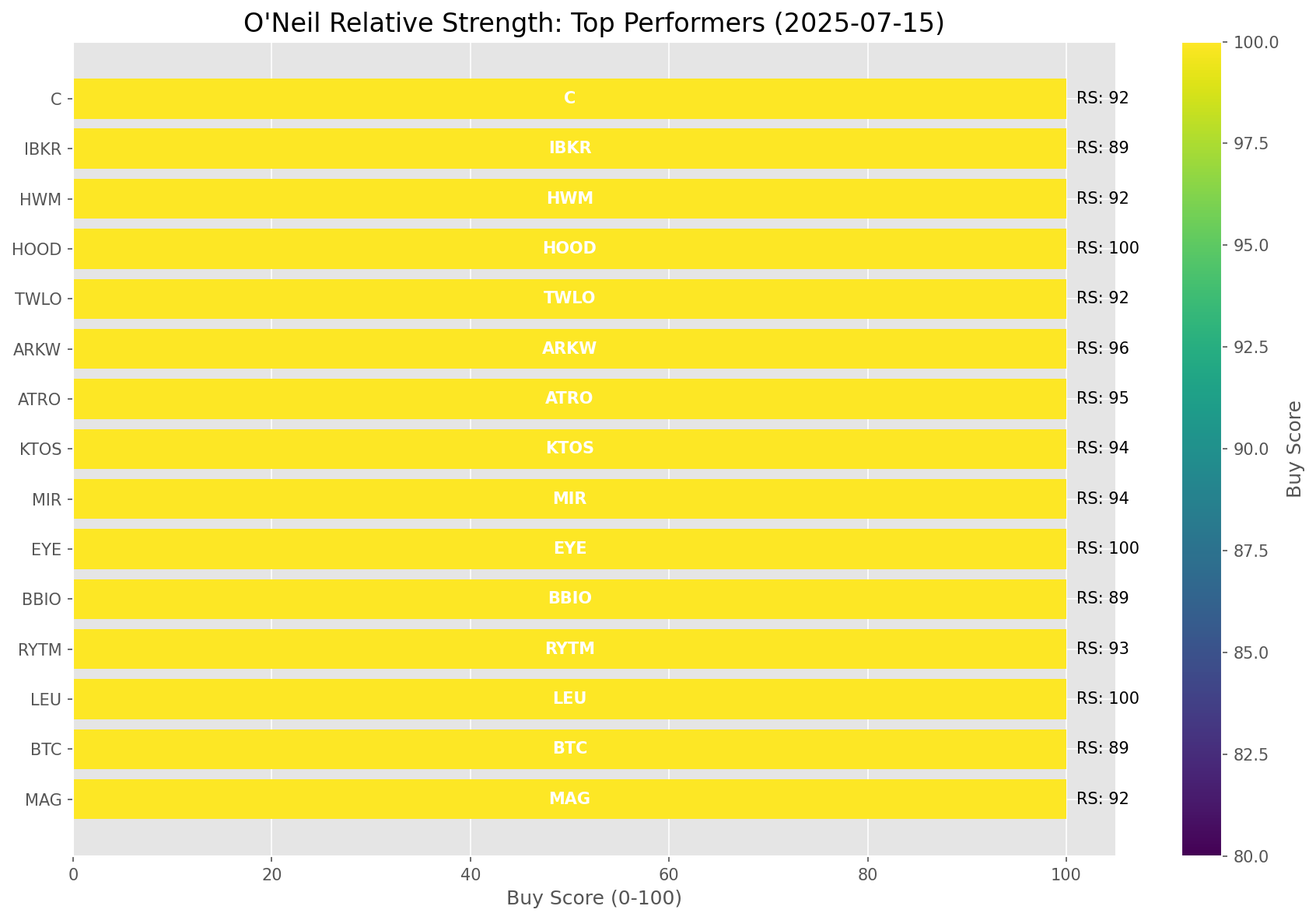
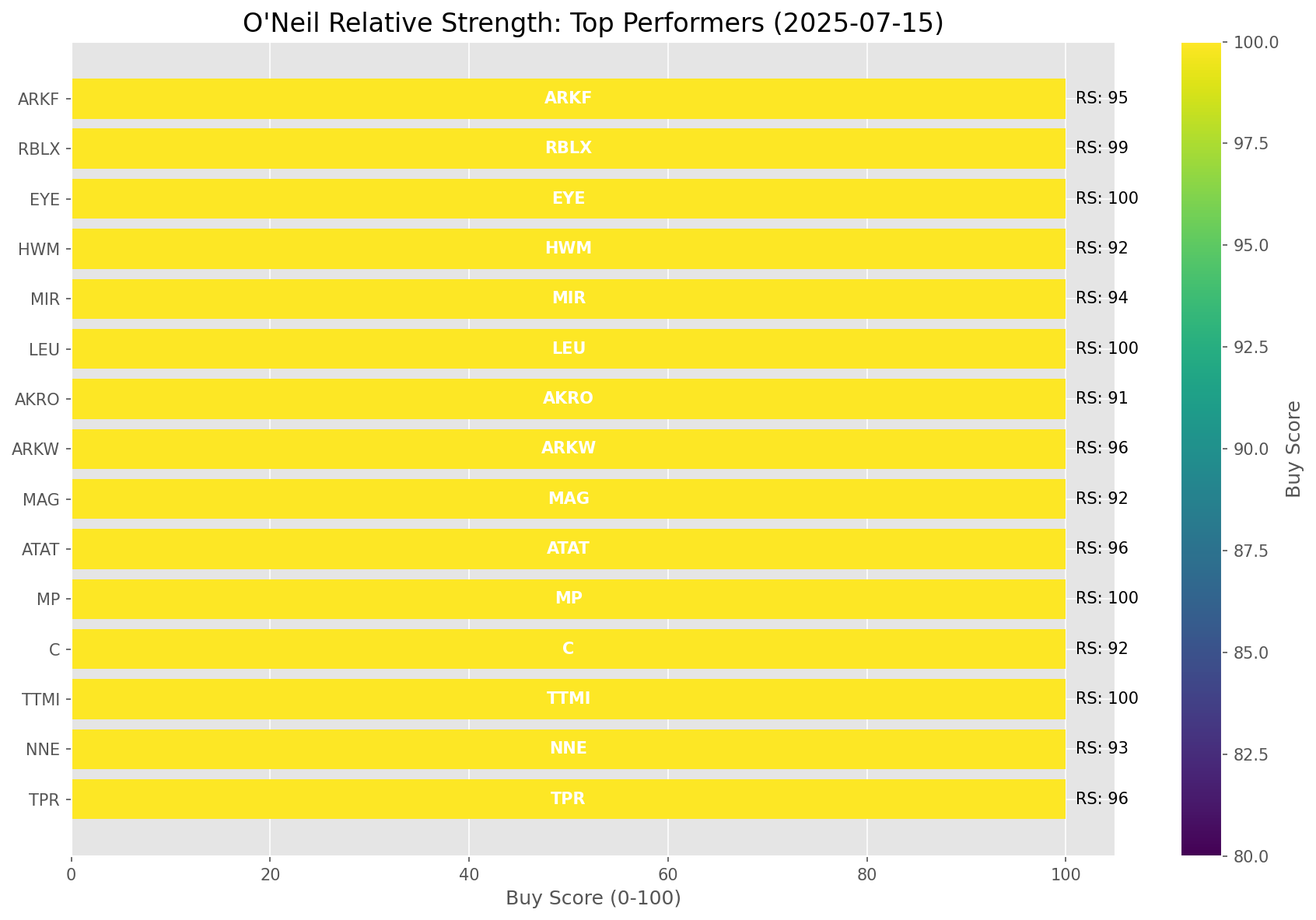
Add market report for 2025-07-15

diff --git a/oneil_relative_strength_report_2025-07-15.md b/oneil_relative_strength_report_2025-07-15.md
@@ -79,8 +79,8 @@ Based on William O'Neil's Relative Strength Methodology
 | [IYR](https://www.tradingview.com/chart/?symbol=IYR) | 29.4 | 39.0 | 6.88% | 10d ✗, 50d ✓, 200d ✗ | ↘ | Real Estate |
 | [BIL](https://www.tradingview.com/chart/?symbol=BIL) | 29.3 | 19.0 | 0.02% | 10d ✓, 50d ✓, 200d ✗ | ↘ | Short-term Treasuries |
 | [UUP](https://www.tradingview.com/chart/?symbol=UUP) | 29.3 | 19.0 | -0.04% | 10d ✓, 50d ✓, 200d ✗ | ↘ | U.S. Dollar |
-| [DBA](https://www.tradingview.com/chart/?symbol=DBA) | 29.0 | 18.0 | -0.54% | 10d ✗, 50d ✗, 200d ✗ | ↗ | Agriculture |
 | [XLP](https://www.tradingview.com/chart/?symbol=XLP) | 29.0 | 18.0 | -0.35% | 10d ✗, 50d ✗, 200d ✗ | ↗ | Consumer Staples |
+| [DBA](https://www.tradingview.com/chart/?symbol=DBA) | 29.0 | 18.0 | -0.54% | 10d ✗, 50d ✗, 200d ✗ | ↗ | Agriculture |
 | [ITB](https://www.tradingview.com/chart/?symbol=ITB) | 27.9 | 36.0 | 5.54% | 10d ✗, 50d ✓, 200d ✗ | ↘ | Home Construction |
 | [TLT](https://www.tradingview.com/chart/?symbol=TLT) | 7.5 | 15.0 | -2.16% | 10d ✗, 50d ✗, 200d ✗ | ↘ | Long-term Treasuries |
 | [XLV](https://www.tradingview.com/chart/?symbol=XLV) | 6.5 | 13.0 | -3.12% | 10d ✗, 50d ✗, 200d ✗ | ↘ | Healthcare |
@@ -110,40 +110,40 @@ The following 43 stocks show exceptional relative strength:
 
 | RS Rating | Buy Score | Current Price | Chart | Name | Ticker |
 |-----------|-----------|---------------|-------|------|--------|
+| 100 | 100 | $45.79 | [Chart](https://www.tradingview.com/chart/?symbol=TTMI) | TTM Technologies Inc | TTMI |
+| 100 | 100 | $58.22 | [Chart](https://www.tradingview.com/chart/?symbol=MP) | MP Materials Corp. | MP |
 | 100 | 100 | $215.26 | [Chart](https://www.tradingview.com/chart/?symbol=LEU) | Centrus Energy Corp. | LEU |
 | 100 | 100 | $25.26 | [Chart](https://www.tradingview.com/chart/?symbol=EYE) | National Vision Holdings, Inc. Common Stock | EYE |
 | 100 | 100 | $99.54 | [Chart](https://www.tradingview.com/chart/?symbol=HOOD) | Robinhood Markets, Inc. Class A Common Stock | HOOD |
-| 100 | 100 | $58.22 | [Chart](https://www.tradingview.com/chart/?symbol=MP) | MP Materials Corp. | MP |
-| 100 | 100 | $45.79 | [Chart](https://www.tradingview.com/chart/?symbol=TTMI) | TTM Technologies Inc | TTMI |
-| 99 | 100 | $68.47 | [Chart](https://www.tradingview.com/chart/?symbol=LIF) | Life360, Inc. Common Stock | LIF |
 | 99 | 100 | $112.48 | [Chart](https://www.tradingview.com/chart/?symbol=RBLX) | Roblox Corporation | RBLX |
-| 98 | 100 | $145.92 | [Chart](https://www.tradingview.com/chart/?symbol=FUTU) | Futu Holdings Limited American Depositary Shares | FUTU |
+| 99 | 100 | $68.47 | [Chart](https://www.tradingview.com/chart/?symbol=LIF) | Life360, Inc. Common Stock | LIF |
 | 98 | 100 | $104.77 | [Chart](https://www.tradingview.com/chart/?symbol=VRNA) | Verona Pharma plc | VRNA |
+| 98 | 100 | $145.92 | [Chart](https://www.tradingview.com/chart/?symbol=FUTU) | Futu Holdings Limited American Depositary Shares | FUTU |
 | 98 | 100 | $39.42 | [Chart](https://www.tradingview.com/chart/?symbol=AS) | Amer Sports, Inc. | AS |
-| 97 | 100 | $148.58 | [Chart](https://www.tradingview.com/chart/?symbol=PLTR) | Palantir Technologies Inc. Class A Common Stock | PLTR |
-| 97 | 100 | $559.61 | [Chart](https://www.tradingview.com/chart/?symbol=GEV) | GE Vernova Inc. | GEV |
 | 97 | 100 | $348.41 | [Chart](https://www.tradingview.com/chart/?symbol=CVNA) | Carvana Co. | CVNA |
-| 96 | 100 | $151.95 | [Chart](https://www.tradingview.com/chart/?symbol=ARKW) | ARK Next Generation Internet ETF | ARKW |
-| 96 | 100 | $35.93 | [Chart](https://www.tradingview.com/chart/?symbol=ATAT) | Atour Lifestyle Holdings Limited American Depositary Shares | ATAT |
+| 97 | 100 | $559.61 | [Chart](https://www.tradingview.com/chart/?symbol=GEV) | GE Vernova Inc. | GEV |
+| 97 | 100 | $148.58 | [Chart](https://www.tradingview.com/chart/?symbol=PLTR) | Palantir Technologies Inc. Class A Common Stock | PLTR |
 | 96 | 100 | $101.60 | [Chart](https://www.tradingview.com/chart/?symbol=TPR) | Tapestry, Inc. Common Stock | TPR |
-| 95 | 100 | $35.29 | [Chart](https://www.tradingview.com/chart/?symbol=ATRO) | Astronics Corp | ATRO |
+| 96 | 100 | $35.93 | [Chart](https://www.tradingview.com/chart/?symbol=ATAT) | Atour Lifestyle Holdings Limited American Depositary Shares | ATAT |
+| 96 | 100 | $151.95 | [Chart](https://www.tradingview.com/chart/?symbol=ARKW) | ARK Next Generation Internet ETF | ARKW |
 | 95 | 100 | $51.69 | [Chart](https://www.tradingview.com/chart/?symbol=ARKF) | ARK Fintech Innovation ETF | ARKF |
+| 95 | 100 | $35.29 | [Chart](https://www.tradingview.com/chart/?symbol=ATRO) | Astronics Corp | ATRO |
 | 94 | 100 | $20.74 | [Chart](https://www.tradingview.com/chart/?symbol=MIR) | Mirion Technologies, Inc. | MIR |
 | 94 | 100 | $51.12 | [Chart](https://www.tradingview.com/chart/?symbol=KTOS) | Kratos Defense & Security Solutions, Inc. | KTOS |
-| 93 | 100 | $89.36 | [Chart](https://www.tradingview.com/chart/?symbol=RYTM) | Rhythm Pharmaceuticals, Inc. Common Stock | RYTM |
-| 93 | 100 | $222.20 | [Chart](https://www.tradingview.com/chart/?symbol=AGX) | Argan, Inc | AGX |
 | 93 | 100 | $35.08 | [Chart](https://www.tradingview.com/chart/?symbol=NNE) | Nano Nuclear Energy Inc. Common Stock | NNE |
-| 92 | 100 | $21.94 | [Chart](https://www.tradingview.com/chart/?symbol=MAG) | MAG Silver Corp. | MAG |
-| 92 | 100 | $126.16 | [Chart](https://www.tradingview.com/chart/?symbol=TWLO) | Twilio Inc. | TWLO |
-| 92 | 100 | $184.68 | [Chart](https://www.tradingview.com/chart/?symbol=HWM) | Howmet Aerospace Inc. | HWM |
+| 93 | 100 | $222.20 | [Chart](https://www.tradingview.com/chart/?symbol=AGX) | Argan, Inc | AGX |
+| 93 | 100 | $89.36 | [Chart](https://www.tradingview.com/chart/?symbol=RYTM) | Rhythm Pharmaceuticals, Inc. Common Stock | RYTM |
 | 92 | 100 | $90.72 | [Chart](https://www.tradingview.com/chart/?symbol=C) | Citigroup Inc. | C |
+| 92 | 100 | $21.94 | [Chart](https://www.tradingview.com/chart/?symbol=MAG) | MAG Silver Corp. | MAG |
+| 92 | 100 | $184.68 | [Chart](https://www.tradingview.com/chart/?symbol=HWM) | Howmet Aerospace Inc. | HWM |
+| 92 | 100 | $126.16 | [Chart](https://www.tradingview.com/chart/?symbol=TWLO) | Twilio Inc. | TWLO |
 | 92 | 100 | $442.31 | [Chart](https://www.tradingview.com/chart/?symbol=MSTR) | MicroStrategy Inc | MSTR |
 | 92 | 100 | $264.67 | [Chart](https://www.tradingview.com/chart/?symbol=GE) | GE Aerospace | GE |
 | 91 | 100 | $51.76 | [Chart](https://www.tradingview.com/chart/?symbol=AKRO) | Akero Therapeutics, Inc. Common Stock | AKRO |
 | 90 | 100 | $78.39 | [Chart](https://www.tradingview.com/chart/?symbol=TPB) | Turning Point Brands, Inc. | TPB |
-| 89 | 100 | $51.61 | [Chart](https://www.tradingview.com/chart/?symbol=BTC) | Grayscale Bitcoin Mini Trust ETF | BTC |
-| 89 | 100 | $46.97 | [Chart](https://www.tradingview.com/chart/?symbol=BBIO) | BridgeBio Pharma, Inc. Common Stock | BBIO |
 | 89 | 100 | $59.63 | [Chart](https://www.tradingview.com/chart/?symbol=IBKR) | Interactive Brokers Group, Inc. Class A Common Stock | IBKR |
+| 89 | 100 | $46.97 | [Chart](https://www.tradingview.com/chart/?symbol=BBIO) | BridgeBio Pharma, Inc. Common Stock | BBIO |
+| 89 | 100 | $51.61 | [Chart](https://www.tradingview.com/chart/?symbol=BTC) | Grayscale Bitcoin Mini Trust ETF | BTC |
 | 89 | 99 | $66.16 | [Chart](https://www.tradingview.com/chart/?symbol=IBIT) | iShares Bitcoin Trust ETF | IBIT |
 | 86 | 99 | $158.26 | [Chart](https://www.tradingview.com/chart/?symbol=SE) | Sea Limited American Depositary Shares, each representing one Class A Ordinary Share | SE |
 | 85 | 98 | $18.48 | [Chart](https://www.tradingview.com/chart/?symbol=BCS) | Barclays PLC | BCS |
@@ -164,52 +164,52 @@ The following 176 stocks show deteriorating relative strength:
 | RS Rating | Sell Score | Current Price | Chart | Name | Ticker |
 |-----------|------------|---------------|-------|------|--------|
 | 1 | 100 | $11.34 | [Chart](https://www.tradingview.com/chart/?symbol=TZA) | Direxion Daily Small Cap Bear 3x Shares | TZA |
-| 1 | 100 | $34.58 | [Chart](https://www.tradingview.com/chart/?symbol=SARK) | Investment Managers Series Trust II Tradr 1X Short Innovation Daily ETF | SARK |
+| 1 | 100 | $25.36 | [Chart](https://www.tradingview.com/chart/?symbol=TECS) | Direxion Daily Technology Bear 3x Shares | TECS |
 | 1 | 100 | $24.96 | [Chart](https://www.tradingview.com/chart/?symbol=QID) | ProShares UltraShort QQQ | QID |
 | 1 | 100 | $10.09 | [Chart](https://www.tradingview.com/chart/?symbol=HIBS) | Direxion Daily S&P 500 High Beta Bear 3X Shares | HIBS |
-| 1 | 100 | $25.36 | [Chart](https://www.tradingview.com/chart/?symbol=TECS) | Direxion Daily Technology Bear 3x Shares | TECS |
-| 2 | 100 | $11.74 | [Chart](https://www.tradingview.com/chart/?symbol=IART) | Integra LifeSciences Holdings | IART |
-| 2 | 100 | $41.00 | [Chart](https://www.tradingview.com/chart/?symbol=LINE) | Lineage, Inc. Common Stock | LINE |
-| 2 | 100 | $16.51 | [Chart](https://www.tradingview.com/chart/?symbol=SDS) | ProShares UltraShort S&P500 | SDS |
-| 2 | 100 | $41.77 | [Chart](https://www.tradingview.com/chart/?symbol=SDOW) | ProShares UltraPro Short Dow 30 | SDOW |
+| 1 | 100 | $34.58 | [Chart](https://www.tradingview.com/chart/?symbol=SARK) | Investment Managers Series Trust II Tradr 1X Short Innovation Daily ETF | SARK |
 | 2 | 100 | $10.25 | [Chart](https://www.tradingview.com/chart/?symbol=SNDX) | Syndax Pharmaceuticals, Inc. | SNDX |
 | 2 | 100 | $221.90 | [Chart](https://www.tradingview.com/chart/?symbol=HUM) | Humana Inc. | HUM |
-| 3 | 100 | $21.72 | [Chart](https://www.tradingview.com/chart/?symbol=ERY) | Direxion Daily Energy Bear 2X Shares | ERY |
+| 2 | 100 | $16.51 | [Chart](https://www.tradingview.com/chart/?symbol=SDS) | ProShares UltraShort S&P500 | SDS |
+| 2 | 100 | $11.74 | [Chart](https://www.tradingview.com/chart/?symbol=IART) | Integra LifeSciences Holdings | IART |
+| 2 | 100 | $41.77 | [Chart](https://www.tradingview.com/chart/?symbol=SDOW) | ProShares UltraPro Short Dow 30 | SDOW |
+| 2 | 100 | $41.00 | [Chart](https://www.tradingview.com/chart/?symbol=LINE) | Lineage, Inc. Common Stock | LINE |
 | 3 | 100 | $10.53 | [Chart](https://www.tradingview.com/chart/?symbol=SONO) | Sonos, Inc. Common Stock | SONO |
-| 3 | 100 | $47.05 | [Chart](https://www.tradingview.com/chart/?symbol=ASGN) | ASGN Incorporated | ASGN |
-| 3 | 100 | $10.76 | [Chart](https://www.tradingview.com/chart/?symbol=OFIX) | Orthofix Medical Inc. Common Stock (DE) | OFIX |
 | 3 | 100 | $15.47 | [Chart](https://www.tradingview.com/chart/?symbol=HP) | Helmerich & Payne, Inc. | HP |
-| 3 | 100 | $81.26 | [Chart](https://www.tradingview.com/chart/?symbol=LNTH) | Lantheus Holdings, Inc | LNTH |
+| 3 | 100 | $47.05 | [Chart](https://www.tradingview.com/chart/?symbol=ASGN) | ASGN Incorporated | ASGN |
+| 3 | 100 | $21.72 | [Chart](https://www.tradingview.com/chart/?symbol=ERY) | Direxion Daily Energy Bear 2X Shares | ERY |
+| 3 | 100 | $10.76 | [Chart](https://www.tradingview.com/chart/?symbol=OFIX) | Orthofix Medical Inc. Common Stock (DE) | OFIX |
 | 3 | 100 | $36.72 | [Chart](https://www.tradingview.com/chart/?symbol=IBTA) | Ibotta, Inc. | IBTA |
+| 3 | 100 | $81.26 | [Chart](https://www.tradingview.com/chart/?symbol=LNTH) | Lantheus Holdings, Inc | LNTH |
+| 4 | 100 | $12.06 | [Chart](https://www.tradingview.com/chart/?symbol=CCRN) | Cross Country Healthcare Inc | CCRN |
+| 4 | 100 | $99.69 | [Chart](https://www.tradingview.com/chart/?symbol=ONTO) | Onto Innovation Inc. | ONTO |
 | 4 | 100 | $65.83 | [Chart](https://www.tradingview.com/chart/?symbol=TNET) | TRINET GROUP, INC. | TNET |
 | 4 | 100 | $24.36 | [Chart](https://www.tradingview.com/chart/?symbol=DXD) | ProShares UltraShort Dow 30 | DXD |
-| 4 | 100 | $10.22 | [Chart](https://www.tradingview.com/chart/?symbol=WNC) | Wabash National Corp. | WNC |
-| 4 | 100 | $99.69 | [Chart](https://www.tradingview.com/chart/?symbol=ONTO) | Onto Innovation Inc. | ONTO |
 | 4 | 100 | $10.07 | [Chart](https://www.tradingview.com/chart/?symbol=LBTYK) | Liberty Global Ltd. Class C Common Shares | LBTYK |
-| 4 | 100 | $12.06 | [Chart](https://www.tradingview.com/chart/?symbol=CCRN) | Cross Country Healthcare Inc | CCRN |
+| 4 | 100 | $10.22 | [Chart](https://www.tradingview.com/chart/?symbol=WNC) | Wabash National Corp. | WNC |
 | 4 | 100 | $30.76 | [Chart](https://www.tradingview.com/chart/?symbol=CRI) | Carter's Inc. | CRI |
 | 4 | 100 | $23.20 | [Chart](https://www.tradingview.com/chart/?symbol=CRTO) | Criteo S.A. | CRTO |
-| 5 | 100 | $27.24 | [Chart](https://www.tradingview.com/chart/?symbol=OMCL) | Omnicell Inc | OMCL |
-| 5 | 100 | $128.00 | [Chart](https://www.tradingview.com/chart/?symbol=INSP) | Inspire Medical Systems, Inc. | INSP |
 | 5 | 100 | $39.52 | [Chart](https://www.tradingview.com/chart/?symbol=SH) | ProShares Short S&P500 | SH |
-| 5 | 100 | $113.47 | [Chart](https://www.tradingview.com/chart/?symbol=TFX) | Teleflex Incorporated | TFX |
+| 5 | 100 | $27.24 | [Chart](https://www.tradingview.com/chart/?symbol=OMCL) | Omnicell Inc | OMCL |
 | 5 | 100 | $12.82 | [Chart](https://www.tradingview.com/chart/?symbol=AVTR) | Avantor, Inc. | AVTR |
-| 6 | 100 | $10.37 | [Chart](https://www.tradingview.com/chart/?symbol=SD) | SandRidge Energy, Inc. | SD |
+| 5 | 100 | $113.47 | [Chart](https://www.tradingview.com/chart/?symbol=TFX) | Teleflex Incorporated | TFX |
+| 5 | 100 | $128.00 | [Chart](https://www.tradingview.com/chart/?symbol=INSP) | Inspire Medical Systems, Inc. | INSP |
 | 6 | 100 | $21.97 | [Chart](https://www.tradingview.com/chart/?symbol=GPK) | Graphic Packaging Holding Company | GPK |
+| 6 | 100 | $10.37 | [Chart](https://www.tradingview.com/chart/?symbol=SD) | SandRidge Energy, Inc. | SD |
 | 6 | 100 | $126.49 | [Chart](https://www.tradingview.com/chart/?symbol=ICUI) | ICU Medical Inc | ICUI |
-| 7 | 100 | $45.49 | [Chart](https://www.tradingview.com/chart/?symbol=CWT) | California Water Service | CWT |
 | 7 | 100 | $58.62 | [Chart](https://www.tradingview.com/chart/?symbol=COLM) | Columbia Sportswear Co | COLM |
 | 7 | 100 | $15.20 | [Chart](https://www.tradingview.com/chart/?symbol=TNDM) | Tandem Diabetes Care, Inc. | TNDM |
 | 7 | 100 | $50.82 | [Chart](https://www.tradingview.com/chart/?symbol=LGIH) | LGI Homes, Inc. | LGIH |
+| 7 | 100 | $45.49 | [Chart](https://www.tradingview.com/chart/?symbol=CWT) | California Water Service | CWT |
+| 8 | 100 | $10.13 | [Chart](https://www.tradingview.com/chart/?symbol=LBTYA) | Liberty Global Ltd. Class A Common Shares | LBTYA |
 | 8 | 100 | $49.79 | [Chart](https://www.tradingview.com/chart/?symbol=LW) | Lamb Weston Holdings, Inc. | LW |
 | 8 | 100 | $25.58 | [Chart](https://www.tradingview.com/chart/?symbol=DOG) | ProShares Short Dow30 | DOG |
-| 8 | 100 | $10.13 | [Chart](https://www.tradingview.com/chart/?symbol=LBTYA) | Liberty Global Ltd. Class A Common Shares | LBTYA |
 | 8 | 100 | $53.23 | [Chart](https://www.tradingview.com/chart/?symbol=AMWD) | American Woodmark Corp | AMWD |
 | 9 | 100 | $101.57 | [Chart](https://www.tradingview.com/chart/?symbol=DEO) | Diageo plc | DEO |
 | 10 | 100 | $48.80 | [Chart](https://www.tradingview.com/chart/?symbol=CNMD) | CONMED Corporation | CNMD |
 | 11 | 100 | $15.79 | [Chart](https://www.tradingview.com/chart/?symbol=BBN) | BlackRock Taxable Municipal Bond Trust | BBN |
-| 11 | 100 | $330.27 | [Chart](https://www.tradingview.com/chart/?symbol=EG) | Everest Group, Ltd. | EG |
 | 11 | 100 | $10.45 | [Chart](https://www.tradingview.com/chart/?symbol=MYI) | BLACKROCK MUNIYIELD QUALITY FUND III, INC. | MYI |
+| 11 | 100 | $330.27 | [Chart](https://www.tradingview.com/chart/?symbol=EG) | Everest Group, Ltd. | EG |
 | 12 | 100 | $11.68 | [Chart](https://www.tradingview.com/chart/?symbol=CLB) | Core Laboratories Inc. | CLB |
 | 12 | 100 | $62.72 | [Chart](https://www.tradingview.com/chart/?symbol=ZROZ) | PIMCO 25+ Year Zero Coupon U.S. Treasury Index Exchange-Traded Fund | ZROZ |
 | 13 | 100 | $27.00 | [Chart](https://www.tradingview.com/chart/?symbol=GTY) | Getty Realty Corp. | GTY |
@@ -217,10 +217,10 @@ The following 176 stocks show deteriorating relative strength:
 | 6 | 99 | $124.17 | [Chart](https://www.tradingview.com/chart/?symbol=CLX) | Clorox Company | CLX |
 | 7 | 99 | $37.49 | [Chart](https://www.tradingview.com/chart/?symbol=LKQ) | LKQ Corporation | LKQ |
 | 8 | 99 | $46.43 | [Chart](https://www.tradingview.com/chart/?symbol=BMY) | Bristol-Myers Squibb Co. | BMY |
-| 10 | 99 | $88.15 | [Chart](https://www.tradingview.com/chart/?symbol=CL) | Colgate-Palmolive Company | CL |
 | 10 | 99 | $100.62 | [Chart](https://www.tradingview.com/chart/?symbol=AFL) | Aflac Inc. | AFL |
-| 13 | 99 | $118.10 | [Chart](https://www.tradingview.com/chart/?symbol=RGEN) | Repligen Corp | RGEN |
+| 10 | 99 | $88.15 | [Chart](https://www.tradingview.com/chart/?symbol=CL) | Colgate-Palmolive Company | CL |
 | 13 | 99 | $12.36 | [Chart](https://www.tradingview.com/chart/?symbol=WSR) | Whitestone REIT | WSR |
+| 13 | 99 | $118.10 | [Chart](https://www.tradingview.com/chart/?symbol=RGEN) | Repligen Corp | RGEN |
 | 3 | 98 | $109.55 | [Chart](https://www.tradingview.com/chart/?symbol=COKE) | Coca-Cola Consolidated, Inc. Common Stock | COKE |
 | 8 | 98 | $126.75 | [Chart](https://www.tradingview.com/chart/?symbol=KMB) | Kimberly-Clark Corp. | KMB |
 | 11 | 98 | $18.58 | [Chart](https://www.tradingview.com/chart/?symbol=SPT) | Sprout Social, Inc Class A Common Stock | SPT |
@@ -228,33 +228,33 @@ The following 176 stocks show deteriorating relative strength:
 | 15 | 98 | $20.98 | [Chart](https://www.tradingview.com/chart/?symbol=LGOV) | First Trust Long Duration Opportunities ETF | LGOV |
 | 4 | 97 | $17.12 | [Chart](https://www.tradingview.com/chart/?symbol=BTAL) | AGF U.S. Market Neutral Anti-Beta Fund | BTAL |
 | 9 | 97 | $12.95 | [Chart](https://www.tradingview.com/chart/?symbol=BSM) | Black Stone Minerals, L.P. | BSM |
-| 11 | 97 | $13.38 | [Chart](https://www.tradingview.com/chart/?symbol=GO) | Grocery Outlet Holding Corp. Common Stock | GO |
 | 11 | 97 | $213.58 | [Chart](https://www.tradingview.com/chart/?symbol=EXP) | Eagle Materials, Inc. | EXP |
+| 11 | 97 | $13.38 | [Chart](https://www.tradingview.com/chart/?symbol=GO) | Grocery Outlet Holding Corp. Common Stock | GO |
 | 17 | 97 | $32.51 | [Chart](https://www.tradingview.com/chart/?symbol=TENB) | Tenable Holdings, Inc. | TENB |
 | 8 | 96 | $302.44 | [Chart](https://www.tradingview.com/chart/?symbol=CI) | The Cigna Group | CI |
 | 9 | 96 | $15.11 | [Chart](https://www.tradingview.com/chart/?symbol=PRO) | Pros Holdings, Inc. | PRO |
 | 9 | 96 | $13.53 | [Chart](https://www.tradingview.com/chart/?symbol=EIC) | Eagle Point Income Company Inc. | EIC |
-| 12 | 96 | $22.53 | [Chart](https://www.tradingview.com/chart/?symbol=RPD) | Rapid7, Inc. Common Stock | RPD |
 | 12 | 96 | $40.40 | [Chart](https://www.tradingview.com/chart/?symbol=POR) | Portland General Electric Company | POR |
+| 12 | 96 | $22.53 | [Chart](https://www.tradingview.com/chart/?symbol=RPD) | Rapid7, Inc. Common Stock | RPD |
 | 14 | 96 | $60.26 | [Chart](https://www.tradingview.com/chart/?symbol=UL) | Unilever plc | UL |
-| 15 | 96 | $85.01 | [Chart](https://www.tradingview.com/chart/?symbol=TLT) | iShares 20+ Year Treasury Bond ETF | TLT |
-| 13 | 95 | $104.77 | [Chart](https://www.tradingview.com/chart/?symbol=BAH) | Booz Allen Hamilton Holding Corporation | BAH |
 | 13 | 95 | $14.52 | [Chart](https://www.tradingview.com/chart/?symbol=VRE) | Veris Residential, Inc. | VRE |
+| 13 | 95 | $104.77 | [Chart](https://www.tradingview.com/chart/?symbol=BAH) | Booz Allen Hamilton Holding Corporation | BAH |
+| 15 | 95 | $85.01 | [Chart](https://www.tradingview.com/chart/?symbol=TLT) | iShares 20+ Year Treasury Bond ETF | TLT |
 | 16 | 95 | $33.47 | [Chart](https://www.tradingview.com/chart/?symbol=HTRB) | Hartford Total Return Bond ETF | HTRB |
-| 10 | 94 | $48.12 | [Chart](https://www.tradingview.com/chart/?symbol=SNY) | Sanofi American Depositary Shares (Each representing one-half of one ordinary share) | SNY |
 | 13 | 94 | $38.09 | [Chart](https://www.tradingview.com/chart/?symbol=KSA) | iShares MSCI Saudi Arabia ETF | KSA |
 | 14 | 94 | $34.04 | [Chart](https://www.tradingview.com/chart/?symbol=PECO) | Phillips Edison & Company, Inc. Common Stock | PECO |
 | 17 | 94 | $21.53 | [Chart](https://www.tradingview.com/chart/?symbol=TUA) | Simplify Short Term Treasury Futures Strategy ETF | TUA |
 | 8 | 93 | $95.51 | [Chart](https://www.tradingview.com/chart/?symbol=CHD) | Church & Dwight Co., Inc. | CHD |
+| 10 | 93 | $48.12 | [Chart](https://www.tradingview.com/chart/?symbol=SNY) | Sanofi American Depositary Shares (Each representing one-half of one ordinary share) | SNY |
 | 11 | 93 | $25.43 | [Chart](https://www.tradingview.com/chart/?symbol=DRV) | Direxion Daily Real Estate Bear 3X Shares | DRV |
 | 14 | 93 | $29.85 | [Chart](https://www.tradingview.com/chart/?symbol=AXTA) | Axalta Coating Systems Ltd. | AXTA |
-| 16 | 93 | $30.81 | [Chart](https://www.tradingview.com/chart/?symbol=SCHQ) | Schwab Long-Term U.S. Treasury ETF | SCHQ |
 | 16 | 93 | $54.24 | [Chart](https://www.tradingview.com/chart/?symbol=DAY) | Dayforce, Inc. | DAY |
 | 16 | 93 | $244.58 | [Chart](https://www.tradingview.com/chart/?symbol=VHT) | Vanguard Health Care ETF | VHT |
+| 16 | 93 | $30.81 | [Chart](https://www.tradingview.com/chart/?symbol=SCHQ) | Schwab Long-Term U.S. Treasury ETF | SCHQ |
 | 17 | 93 | $31.86 | [Chart](https://www.tradingview.com/chart/?symbol=INVH) | Invitation Homes Inc. Common Stock | INVH |
 | 14 | 92 | $74.21 | [Chart](https://www.tradingview.com/chart/?symbol=BG) | Bunge Global SA | BG |
-| 16 | 92 | $26.15 | [Chart](https://www.tradingview.com/chart/?symbol=BAB) | Invesco Taxable Municipal Bond ETF | BAB |
 | 16 | 92 | $77.13 | [Chart](https://www.tradingview.com/chart/?symbol=EMN) | Eastman Chemical Company | EMN |
+| 16 | 92 | $26.15 | [Chart](https://www.tradingview.com/chart/?symbol=BAB) | Invesco Taxable Municipal Bond ETF | BAB |
 | 22 | 92 | $24.41 | [Chart](https://www.tradingview.com/chart/?symbol=HYMB) | SPDR Nuveen ICE High Yield Municipal Bond ETF | HYMB |
 | 22 | 92 | $176.94 | [Chart](https://www.tradingview.com/chart/?symbol=UHS) | Universal Health Services, Inc. Class B | UHS |
 | 12 | 91 | $14.25 | [Chart](https://www.tradingview.com/chart/?symbol=INMD) | InMode Ltd. Ordinary Shares | INMD |
@@ -284,10 +284,10 @@ The following 176 stocks show deteriorating relative strength:
 | 20 | 86 | $39.58 | [Chart](https://www.tradingview.com/chart/?symbol=TOTL) | SSgA Active ETF Trust SPDR DoubleLine Total Return Tactical ETF | TOTL |
 | 20 | 86 | $93.91 | [Chart](https://www.tradingview.com/chart/?symbol=IEF) | iShares 7-10 Year Treasury Bond ETF | IEF |
 | 23 | 86 | $90.83 | [Chart](https://www.tradingview.com/chart/?symbol=BOND) | PIMCO Active Bond Exchange-Traded Fund | BOND |
-| 15 | 85 | $15.22 | [Chart](https://www.tradingview.com/chart/?symbol=PLSE) | Pulse Biosciences, Inc Common Stock (DE) | PLSE |
 | 15 | 85 | $759.96 | [Chart](https://www.tradingview.com/chart/?symbol=EQIX) | Equinix, Inc. Common Stock REIT | EQIX |
-| 18 | 85 | $29.12 | [Chart](https://www.tradingview.com/chart/?symbol=SPTS) | SPDR Portfolio Short Term Treasury ETF | SPTS |
+| 15 | 85 | $15.22 | [Chart](https://www.tradingview.com/chart/?symbol=PLSE) | Pulse Biosciences, Inc Common Stock (DE) | PLSE |
 | 18 | 85 | $66.74 | [Chart](https://www.tradingview.com/chart/?symbol=MDLZ) | Mondelez International, Inc. Class A | MDLZ |
+| 18 | 85 | $29.12 | [Chart](https://www.tradingview.com/chart/?symbol=SPTS) | SPDR Portfolio Short Term Treasury ETF | SPTS |
 | 19 | 85 | $82.38 | [Chart](https://www.tradingview.com/chart/?symbol=SHY) | iShares 1-3 Year Treasury Bond ETF | SHY |
 | 24 | 85 | $16.69 | [Chart](https://www.tradingview.com/chart/?symbol=MLN) | VanEck Long Muni ETF | MLN |
 | 29 | 85 | $11.83 | [Chart](https://www.tradingview.com/chart/?symbol=NVG) | Nuveen AMT-Free Municipal Credit Income Fund | NVG |
@@ -297,13 +297,13 @@ The following 176 stocks show deteriorating relative strength:
 | 28 | 84 | $66.13 | [Chart](https://www.tradingview.com/chart/?symbol=EQR) | Equity Residential | EQR |
 | 30 | 84 | $11.85 | [Chart](https://www.tradingview.com/chart/?symbol=NZF) | Nuveen Municipal Credit Income Fund | NZF |
 | 27 | 83 | $43.86 | [Chart](https://www.tradingview.com/chart/?symbol=CMPR) | Cimpress PLC Ordinary Shares (Ireland) | CMPR |
-| 22 | 82 | $117.44 | [Chart](https://www.tradingview.com/chart/?symbol=ITGR) | Integer Holdings Corporation | ITGR |
 | 28 | 82 | $10.89 | [Chart](https://www.tradingview.com/chart/?symbol=NEA) | Nuveen AMT-Free Quality Municipal Income Fund | NEA |
 | 29 | 82 | $34.72 | [Chart](https://www.tradingview.com/chart/?symbol=CMCSA) | Comcast Corp | CMCSA |
 | 32 | 82 | $19.88 | [Chart](https://www.tradingview.com/chart/?symbol=AMN) | AMN Healthcare Services | AMN |
 | 38 | 82 | $24.00 | [Chart](https://www.tradingview.com/chart/?symbol=HOG) | Harley-Davidson, Inc. | HOG |
 | 19 | 81 | $99.95 | [Chart](https://www.tradingview.com/chart/?symbol=GBIL) | Goldman Sachs Access Treasury 0-1 Year ETF | GBIL |
 | 22 | 81 | $339.05 | [Chart](https://www.tradingview.com/chart/?symbol=SHW) | The Sherwin-Williams Company | SHW |
+| 22 | 81 | $117.44 | [Chart](https://www.tradingview.com/chart/?symbol=ITGR) | Integer Holdings Corporation | ITGR |
 | 26 | 81 | $13.71 | [Chart](https://www.tradingview.com/chart/?symbol=DOLE) | Dole plc | DOLE |
 | 21 | 80 | $117.65 | [Chart](https://www.tradingview.com/chart/?symbol=IEI) | iShares 3-7 Year Treasury Bond ETF | IEI |
 | 22 | 80 | $97.75 | [Chart](https://www.tradingview.com/chart/?symbol=AGG) | iShares Core U.S. Aggregate Bond ETF | AGG |
@@ -316,11 +316,11 @@ The following 176 stocks show deteriorating relative strength:
 | 23 | 78 | $35.49 | [Chart](https://www.tradingview.com/chart/?symbol=AMH) | AMERICAN HOMES 4 RENT | AMH |
 | 30 | 78 | $29.26 | [Chart](https://www.tradingview.com/chart/?symbol=MGPI) | MGP Ingredients Inc | MGPI |
 | 30 | 77 | $25.27 | [Chart](https://www.tradingview.com/chart/?symbol=BRX) | BRIXMOR PROPERTY GROUP INC. | BRX |
-| 30 | 77 | $103.04 | [Chart](https://www.tradingview.com/chart/?symbol=CNI) | Canadian National Railway | CNI |
 | 33 | 77 | $293.24 | [Chart](https://www.tradingview.com/chart/?symbol=UTHR) | United Therapeutics Corp | UTHR |
 | 33 | 77 | $177.18 | [Chart](https://www.tradingview.com/chart/?symbol=AVY) | Avery Dennison Corp. | AVY |
 | 33 | 77 | $112.48 | [Chart](https://www.tradingview.com/chart/?symbol=CPT) | Camden Property Trust | CPT |
 | 39 | 77 | $121.97 | [Chart](https://www.tradingview.com/chart/?symbol=SITE) | SiteOne Landscape Supply, Inc. | SITE |
+| 30 | 76 | $103.04 | [Chart](https://www.tradingview.com/chart/?symbol=CNI) | Canadian National Railway | CNI |
 | 32 | 75 | $21.84 | [Chart](https://www.tradingview.com/chart/?symbol=SGRY) | Surgery Partners, Inc. Common Stock | SGRY |
 | 32 | 75 | $148.74 | [Chart](https://www.tradingview.com/chart/?symbol=EA) | Electronic Arts Inc | EA |
 | 37 | 75 | $161.35 | [Chart](https://www.tradingview.com/chart/?symbol=ODFL) | Old Dominion Freight Line | ODFL |
